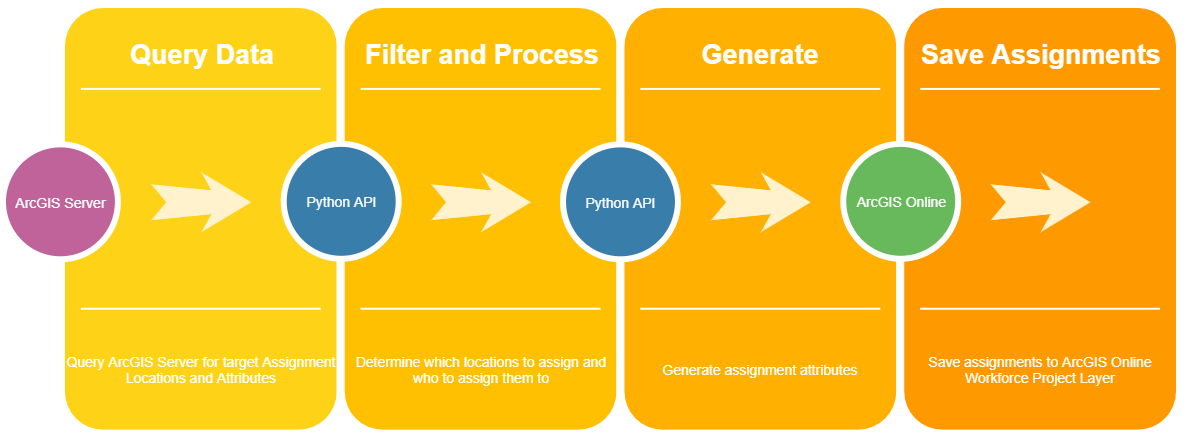
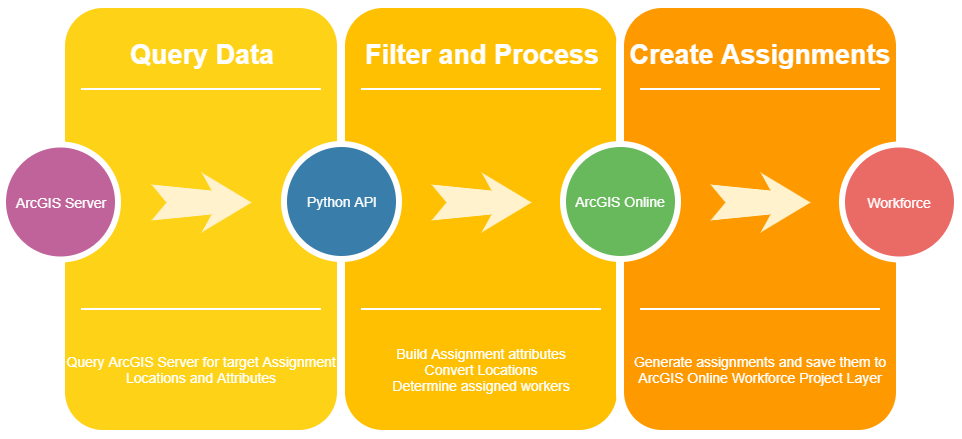
updates

diff --git a/PRESENTATION.md b/PRESENTATION.md
@@ -23,19 +23,9 @@ https://github.com/roemhildtg/
 
 # About Me
 
- - Web Developer @ WSB
+ - Web Developer @ [WSB](https://wsbeng.com)
  - Python, Javascript (NodeJS, ES6)
  - Web GIS (Workforce, Survey123, Enterprise, PostGIS)
-
----
-
-
-![bg](#123)
-![](#fff)
-
-# About You
-
-
 
 ---
 
@@ -43,7 +33,7 @@ https://github.com/roemhildtg/
 
  - Reduce errors/provide consistency
  - Save time
- - Customize assignments
+ - Standardize assignments data
 
 ```python
 # Example of a custom assignment
@@ -56,10 +46,51 @@ workforce.Assignment(
 ```
 ---
 
-# Workforce Workflow
+# Components
+ - Workforce for ArcGIS
+ - [Jupyter Notebooks](https://jupyter.org/), Python, & [ArcGIS Python API](https://developers.arcgis.com/python/)
+ - [Jenkins Automation Server](https://jenkins.io/)
+
+---
+
+
+# What is Workforce?
+
+Feature layers, Applications, and Integrations
 
 ![Workforce](./assets/Workforce.png?)
 
+---
+
+# Python and Jupyter Notebooks
+
+ - Exploratory python scripting
+ - Easy to document and explain
+ - Converts to executable python script
+ - ArcGIS Python API
+
+![Jupyter](./assets/jupyter.svg)
+
+---
+
+## Jupyter Alternatives:
+ - PyCharm
+ - VSCode
+ - ...
+
+## Script Language alternatives
+
+ - ArcGIS REST JS API (node)
+
+---
+
+![Jenkins](./assets/jenkins.jpg)
+
+ - Powerful task automation tool
+ - Free and open source
+ - Detailed logging
+ - Secure credentials
+ - Powerful scheduling
 
 ---
 
@@ -71,19 +102,18 @@ workforce.Assignment(
 
 ## Python Process
 
-
-
-
----
-# Requirements
-
- - Python (Recommended: 3.x)
- 
-
+![Python](./assets/Python.png)
 
 ---
+<!-- class: invert -->
 
-### <!--fit--> :ok_hand:
+Python Process 2
+
+![FilterLogic](./assets/FilterLogic.png?)
+
+---
+
+### <!--fit--> :question:
 
 ---
 
